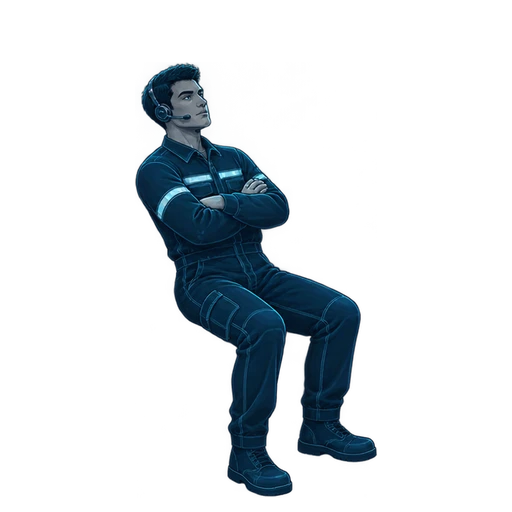
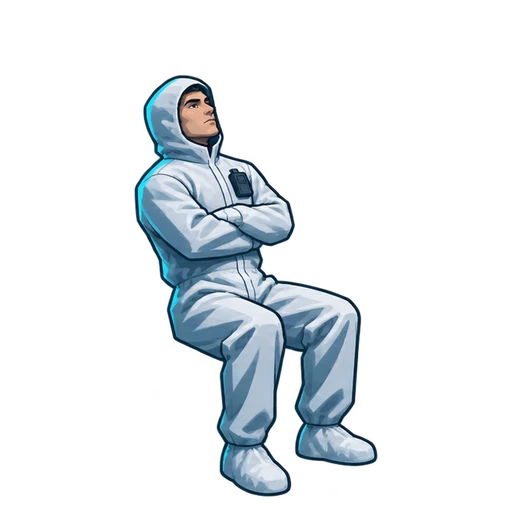
design(art): radworker crew

Changed region(s): [[0.25, 0.125, 0.75, 0.9688]]

diff --git a/design/art/source/PROMPTS.md b/design/art/source/PROMPTS.md
@@ -6,7 +6,7 @@
 - Chain: base-lit was painted first; base-dark is an edit of base-lit (so room interiors line up for a per-room crossfade); core-tripped is an edit of base-dark.
 - Tool arguments are as Codex recorded them for each call (`codex exec` does not print image-tool calls itself).
 - Plates were resized to exactly 2400×1500 (`sips` for base-dark and base-lit). All files were encoded with `cwebp -q 90 -alpha_q 100 -exact`.
-- Crew (consistent set): all four poses come from ONE generated character sheet (one operator design, same scale), split and normalised by `normalise_crew.py` onto 512×512 transparent canvases (see below).
+- Crew (radworkers): all five poses come from ONE generated character sheet (one radworker design, same scale), split and normalised by `normalise_crew.py` onto 512×512 transparent canvases (see below).
 - This file and its hashes were generated by `make_source_prompts_md.py`, not typed.
 
 ## Files
@@ -16,10 +16,11 @@
[12 lines of base64/hex data omitted]
 
 ## core-tripped is a composite
 
@@ -63,23 +64,24 @@ Preserve empty chairs throughout: no room is occupied. Base-dark plate. Identica
 Preserve empty chairs throughout: no room is occupied. Base-lit plate. Identical to the attached B frame (B-healthy.png), but NO people anywhere; every one of the 13 rooms lit as an occupied room would be (screens on, cyan glow, empty chairs); core glowing healthy cold cyan as in the B frame; pipe runs lit. Keep the supplied blockout's exact framing, 30-degree isometric projection, ring layout, pipe routes, containment and all 13 room footprints. No text, no labels, no numbers, no logos. Small seated operators (about 20 px tall at this size) at consoles in occupied rooms. Match the attached B frame's style, linework, palette and lighting exactly.
 ```
 
-## Crew: crew-working, crew-waiting, crew-stuck, crew-needs-you
+## Crew (radworkers): crew-working, crew-waiting, crew-stuck, crew-needs-you, crew-walking
 
-All four are cut from one character sheet (four poses of the same operator, side by side, same scale, transparent background), so the design and scale are identical across poses. The sheet was split at fully transparent column gaps, and each figure cropped to its alpha bounds. ONE common scale factor was applied to all four, so relative head heights follow the pose and the standing figure is tallest. Each figure was placed on a 512×512 transparent canvas with its lowest opaque pixel on y=496 and centred horizontally. Output of `normalise_crew.py`:
+All five are cut from one character sheet (five poses of the same radworker, side by side, same scale, transparent background), so the design and scale are identical across poses. The sheet was split at fully transparent column gaps, and each figure cropped to its alpha bounds. ONE common scale factor was applied to all five, so relative head heights follow the pose and the standing figure is tallest. Each figure was placed on a 512×512 transparent canvas with its lowest opaque pixel on y=496 and centred horizontally. Output of `normalise_crew.py`:
 
 ```text
-common scale factor: 0.7028 (sheet 2172x724; tallest figure 683px; widest 344px)
-crew-working: sheet crop (199, 68, 496, 687) 297x619 -> 209x435 at scale 0.7028; opaque rows y=63..496 (head top 63, baseline 496)
-crew-waiting: sheet crop (680, 63, 1024, 684) 344x621 -> 242x436 at scale 0.7028; opaque rows y=62..496 (head top 62, baseline 496)
-crew-stuck: sheet crop (1195, 184, 1493, 686) 298x502 -> 209x353 at scale 0.7028; opaque rows y=145..496 (head top 145, baseline 496)
-crew-needs-you: sheet crop (1690, 11, 1953, 694) 263x683 -> 185x480 at scale 0.7028; opaque rows y=17..496 (head top 17, baseline 496)
+common scale factor: 0.7306 (sheet 2172x724; tallest figure 657px; widest 334px)
+crew-working: sheet crop (73, 108, 367, 673) 294x565 -> 215x413 at scale 0.7306; opaque rows y=84..496 (head top 84, baseline 496)
+crew-waiting: sheet crop (522, 95, 856, 674) 334x579 -> 244x423 at scale 0.7306; opaque rows y=75..496 (head top 75, baseline 496)
+crew-stuck: sheet crop (959, 175, 1247, 671) 288x496 -> 210x362 at scale 0.7306; opaque rows y=136..496 (head top 136, baseline 496)
+crew-needs-you: sheet crop (1399, 30, 1643, 687) 244x657 -> 178x480 at scale 0.7306; opaque rows y=18..496 (head top 18, baseline 496)
+crew-walking: sheet crop (1800, 32, 2108, 680) 308x648 -> 225x473 at scale 0.7306; opaque rows y=24..496 (head top 24, baseline 496)
 ```
 
-### crew sheet (source of all four crew files)
+### crew sheet (source of all five crew files)
 
 - Tool: `image_gen.imagegen`; references: `B-healthy.png`; transparent_background: `true`; native size 2172×724
 - Prompt as the tool received it:
 
 ```text
-Character sheet on a fully transparent background: the SAME single plant operator drawn four times side by side in one row, at exactly the same scale, well separated with clear empty space between figures so none touch or overlap. Engineering-cutaway style matching the attached B frame: crisp technical illustration, fine light linework, flat shading, deep navy and cyan, cool lighting. One operator design for all four: same dark navy coverall with thin cyan reflective stripes, same slim headset with a small boom microphone (no hard hat, no helmet, no cap), same short hair, same build. 3/4 isometric view matching the attached frame's 30-degree projection, all four facing the same direction. NO furniture or props at all: no chair, no stool, no console, no desk, no tablet, no floor, no shadow. Seated poses are posed as if on an invisible stool against an invisible desk edge. From left to right: (1) seated, hands forward typing in the air, cyan screen glow on the face; (2) seated, leaning back, arms crossed; (3) seated, slumped forward, head resting on forearms; (4) standing, facing the viewer, one hand raised slightly, with one small amber status lamp on the headset — that lamp is the only warm colour anywhere; everything else cool. No text, no labels, no numbers, no logos.
+Character sheet on a fully transparent background: the SAME single nuclear plant radiation worker drawn five times side by side in one row, at exactly the same scale, well separated with clear empty space between figures so none touch or overlap. Engineering-cutaway illustration style matching the attached B frame's linework and cool lighting, but with bold, clear silhouettes, strong value contrast and minimal fine detail, so each figure still reads when shrunk to 64 px tall. One radworker design for all five: white / very light grey anti-contamination coveralls (bright against a dark navy plant), hood up, a clip-on dosimeter badge on the chest, white cotton gloves, white shoe covers; face visible; no respirator, no mask, no hard hat. 3/4 isometric view matching the attached frame's 30-degree projection, all five facing the same direction except where noted. NO furniture or props at all: no chair, no stool, no console, no desk, no tablet, no floor, no shadow. Seated poses are posed as if on an invisible stool against an invisible desk edge. From left to right: (1) seated, hands forward typing; (2) seated, leaning back, arms crossed; (3) seated, slumped forward, head resting on forearms; (4) standing, facing the viewer, one hand raised slightly, with one small amber lamp lit on the dosimeter badge — that lamp is the only warm colour anywhere; (5) walking mid-stride, 3/4 view. Cool lighting with faint cyan rim light; no warm colours anywhere except that one lamp. No text, no labels, no numbers, no logos, no radiation symbols.
 ```
